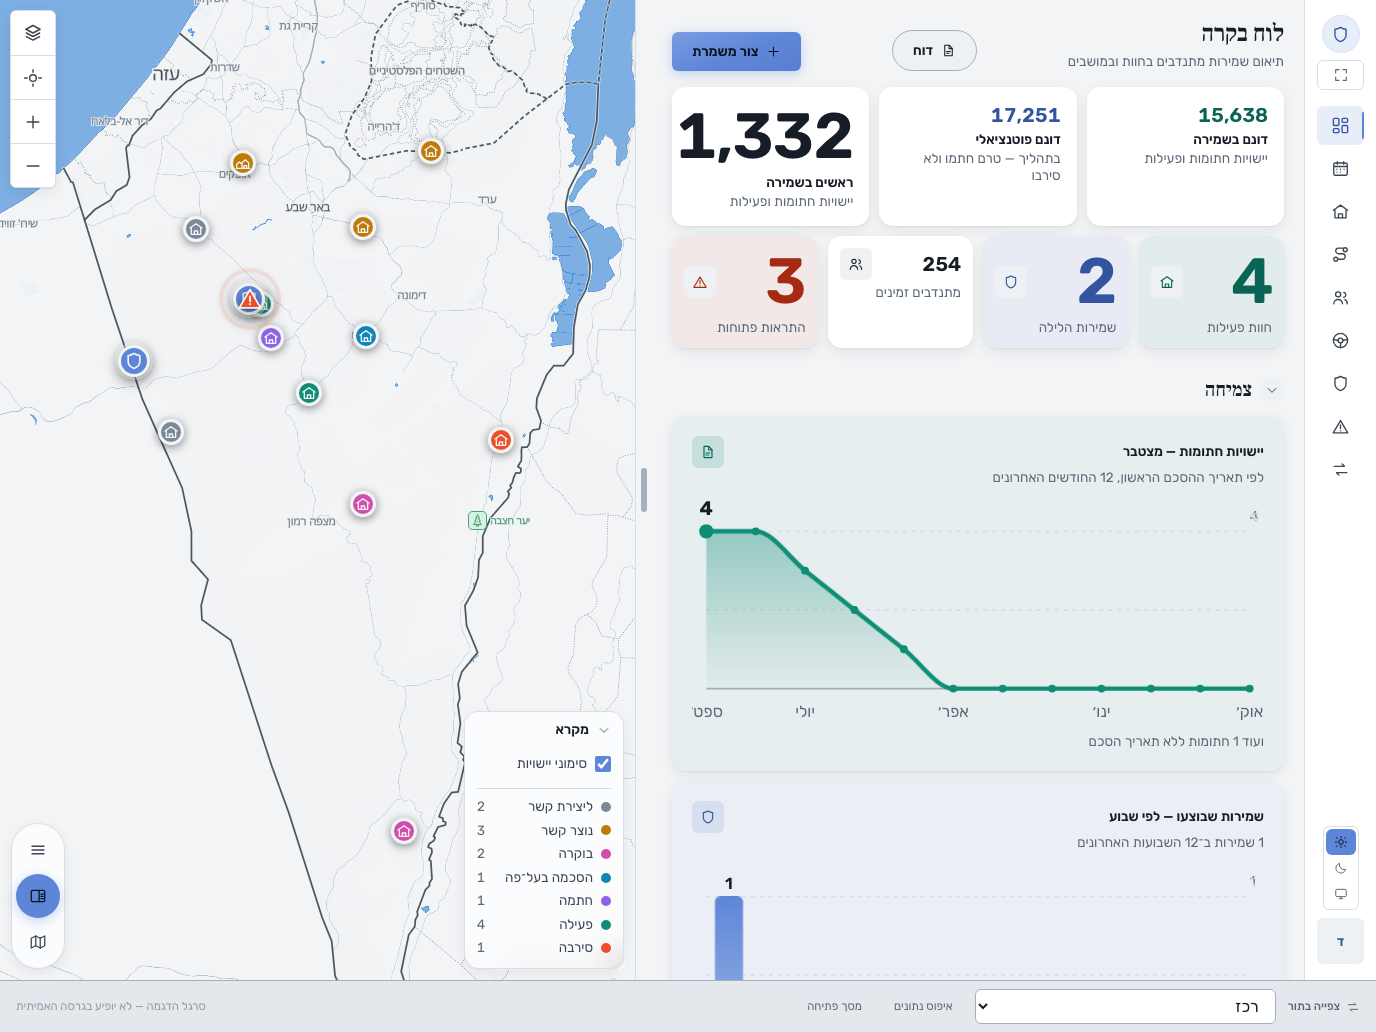
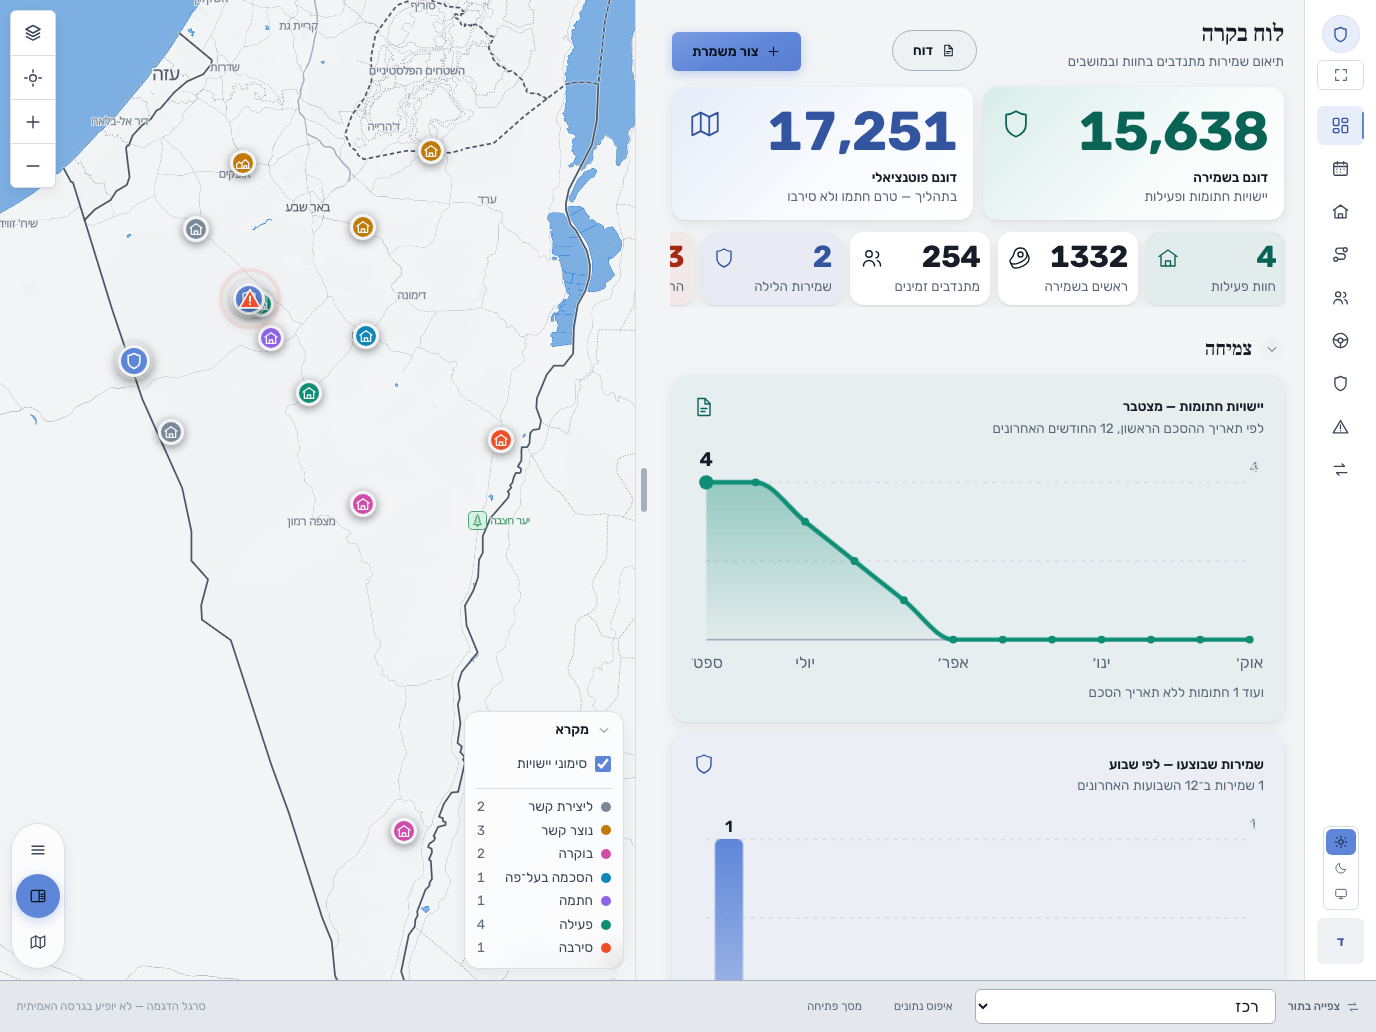
Passe finale — note ETAT (W1–W3 livrés, W4–W8 sacrifiés, 5 points à re-tester), gate uipass W2/W3, captures de l'URL servie, licences : portraits utilisés

diff --git a/scripts/uipass.ts b/scripts/uipass.ts
@@ -66,7 +66,18 @@ await open(page, '#/coordinator', 4500)
 const charts = page.locator('[data-testid="chart-area"], [data-testid="chart-bars"]')
 check('dashboard: two growth charts', (await charts.count()) === 2)
 const boxes = await charts.evaluateAll((els) => els.map((e) => e.getBoundingClientRect()))
-check('dashboard: the charts are one UNDER the other', boxes.length === 2 && boxes[1].top > boxes[0].bottom - 1)
+// W3.2 (passe finale) — one under the other in a narrow column, SIDE BY SIDE
+// once the content column is 44 rem wide; and never taller than 240 px.
+const growthW = await page.locator('[data-testid="growth-charts"]').evaluate((e) => e.getBoundingClientRect().width)
+const sideBySide = growthW >= 44 * 16
+check(
+  sideBySide ? 'dashboard: the charts are SIDE BY SIDE (wide column)' : 'dashboard: the charts are one UNDER the other (narrow column)',
+  boxes.length === 2 && (sideBySide ? Math.abs(boxes[1].top - boxes[0].top) < 2 : boxes[1].top > boxes[0].bottom - 1),
+  `${Math.round(growthW)} px`,
+)
+check('dashboard: no chart taller than 240 px', boxes.every((b) => b.height <= 241), boxes.map((b) => Math.round(b.height)).join('/'))
+check('dashboard: no figure escapes its card', (await page.locator('[data-figure]').evaluateAll((els) => els.filter((e) => e.scrollWidth > e.clientWidth + 1).length)) === 0)
+check('dashboard: the two dunam cards lead', (await page.locator('[data-testid="hero-figures"] a').count()) === 2)
 const kpiBottom = await page.locator('[data-testid="kpi-guarded-heads"], a.card-interactive').first().evaluate((e) => e.getBoundingClientRect().bottom)
 check('dashboard: the charts come directly under the figures', boxes[0].top > kpiBottom)
 check('dashboard: the alerts are a carousel', (await page.locator('[data-testid="alerts-carousel"] [data-testid="alert-chip"]').count()) >= 2)

diff --git a/ETAT.md b/ETAT.md
@@ -1,5 +1,97 @@
 # לא ינום — ETAT
 
+> 🏁 **PASSE FINALE AVANT DÉMONSTRATION — 2026-09-02, ~10:00 (heure d'Israël). LIRE EN PREMIER.**
+>
+> Brief W1→W8, 1 h 30 chrono, autonomie totale. **Livré : W1, W2, W3.**
+> **Sacrifié faute de temps : W4, W5, W6, W7, W8** (dans l'ordre inverse
+> demandé, depuis la fin). Commits `c5381e0` (W1) et `7a5eefb` (W2+W3) sur
+> `main`, déploiement run 33610742383 ; captures locales dans
+> `docs/screenshots/final/`, captures de l'URL servie dans
+> `docs/screenshots/uipass/`.
+>
+> **État vérifié sur l'URL servie** (https://azmer-fts.github.io/lo-yanum/,
+> jumeau démo `/demo/`) : déploiement run 33610742383 **succès** ;
+> `bun run uipass` sur l'URL servie **21/21** (dont les 4 contrôles W2/W3
+> ajoutés : aucune figure n'échappe à sa carte, graphes ≤ 240 px, les deux
+> cartes dunams en tête, carrousel) ; `bun run blocks` **26/26** ;
+> `VIEWPORT=ipad-ls bun run layout` (gate renforcé W2, 32 écrans × 3
+> positions de séparateur) **0 échec** — les trois sur le build de ce commit.
+> Les autres viewports du gate `layout` (phone, iphone, ipad portrait) n'ont
+> pas été relancés faute de temps : à faire au prochain démarrage.
+>
+> ## Ce qui a changé
+>
+> - **W1 — portraits.** Plus aucune femme, plus aucune personne âgée parmi
+>   les volontaires et conducteurs : ils ne résolvent plus que vers les
+>   **16 jeunes hommes** du pool existant (fichiers listés dans
+>   `docs/demo-photos-licences.md` et `src/ui/demoPhotos.ts`) ; les contacts
+>   d'entités (agriculteurs) vers des hommes adultes de tous âges. Le choix
+>   se fait par la graine du marqueur (`contact` → adulte, sinon jeune), donc
+>   **rien n'a changé en base** et la purge reste la même.
+>   ⚠ Portraits « religieux » (kippa, tsitsit) : cherchés sur Wikimedia
+>   Commons (toutes licences, comme autorisé) — il n'y a que des archives
+>   noir et blanc des années 80 (Kiryat Arba, GPO) et des **personnalités
+>   publiques identifiables** (rabbins, députés, ambassadeur). Mettre le
+>   visage d'une personne réelle et identifiable sur un volontaire fictif
+>   était le pire résultat possible en démonstration ; j'ai renoncé. Les
+>   portraits actuels sont des modèles Unsplash CC0, jeunes, sans signe
+>   religieux. **Ces images sont temporaires et doivent être purgées ou
+>   remplacées avant tout usage réel.**
+> - **W2 — plus rien ne déborde d'une carte.** Cause racine traitée : chaque
+>   grand chiffre porte `data-figure`, sa carte est un *size container*
+>   (`.figure-card`) et sa taille de police est `min(plafond, (largeur −
+>   réserve icône) / (nb de caractères × 0,66))` — le chiffre s'adapte à la
+>   carte, jamais l'inverse ; `overflow:hidden` en dernier recours ;
+>   `.auto-cols` clampé par `min(--col-min, 100%)`. **Gate `layout`
+>   renforcé** : une figure plus large que sa carte = échec, aux 4 viewports
+>   × 3 positions de séparateur. Vérifié localement : scrollWidth == viewport
+>   et 0 figure échappée sur dashboard (3 positions), volontaires,
+>   conducteurs, fiche ferme.
+> - **W3 — dashboard.** (a) Deux grandes cartes « waouh » en tête
+>   (דונם בשמירה, דונם פוטנציאלי), jamais masquables, dégradé doux, icône
+>   nue 34 px trait fin ; (b) juste dessous **une rangée swipable** de petites
+>   cartes : חוות פעילות, ראשים בשמירה (petit, volontairement), מתנדבים
+>   זמינים, שמירות הלילה, התראות פתוחות — jamais de retour à la ligne ;
+>   (c) icônes sans pastille ronde, plus grandes, trait fin : dashboard,
+>   graphes, alertes, `Stat`, `KpiFilter`, « ma journée ». (2) Graphes
+>   plafonnés à **240 px** ; **côte à côte** dès que la colonne fait 44 rem
+>   (container query), vérifié à 3 positions de séparateur. (3) Carrousel
+>   d'alertes : contient **toutes** les alertes ouvertes, 2 visibles, hauteur
+>   +50 % (5,25 rem), **points de position** cliquables. Note : le dashboard
+>   et le badge du rail lisent la même source `getAlerts()` (incidents
+>   urgents non résolus, écarts de présence, retours non confirmés,
+>   recrutement) ; s'il voit « 5 » ailleurs, c'est la liste des incidents, qui
+>   compte aussi les non urgents.
+>
+> ## Sacrifié (pas commencé)
+>
+> - **W4** bouton d'action flottant unifié + menu contextuel façon macOS.
+> - **W5** carte : pile de contrôles en verre dépoli + sélecteur מפה/לוויין,
+>   suppression des boutons de mode en haut des listes, regroupement des
+>   outils de dessin dans le stylet, bouton « i » d'attribution, légende
+>   identique partout, marqueurs différenciés par type.
+> - **W6** fiche d'entité : bandeau à hauteur fixe, « מוזן ידנית » sur une
+>   deuxième ligne, pilule d'actions, fil d'Ariane réduit à une flèche.
+> - **W7** profil coordinateur éditable + rapport périodique.
+> - **W8** signature sur le contrat (P3.3).
+>
+> ## À re-tester par le PO — 5 points
+>
+> 1. **מתנדבים / נהגים** : faire défiler toute la liste — uniquement des
+>    hommes jeunes ; une fiche ferme → contacts = hommes adultes.
+> 2. **Dashboard iPad paysage** : déplacer le séparateur aux deux extrêmes —
+>    aucun scroll horizontal, les chiffres restent dans leurs cartes.
+> 3. **Dashboard** : les deux cartes dunams en tête, la rangée de petits KPI
+>    se swipe au doigt quand la colonne est étroite.
+> 4. **Graphes** : panneau large → côte à côte, jamais plus hauts que 240 px.
+> 5. **Alertes** : swiper le carrousel, les points suivent ; toutes les
+>    alertes ouvertes y sont.
+>
+> Pour reprendre : `git pull && bun install && bun run dev`, puis
+> `BASE_URL=http://localhost:5173 bun run layout` (gate renforcé W2) et
+> `bun run uipass` (URL servie, contrôles W3 ajoutés).
+
+
 > 🎯 **PASSE UI/UX AVANT DÉMONSTRATION — 2026-09-02 (journée). LIRE EN PREMIER.**
 >
 > Les dix unités U1→U10 de votre brief sont livrées, commitées une par une

diff --git a/docs/demo-photos-licences.md b/docs/demo-photos-licences.md
@@ -4,6 +4,8 @@ All 90 images under `public/demo-photos/` are CC0 / public domain photographs fr
 
 Regenerate with `bun run scripts/demo-photos.ts`. The manifest is `public/demo-photos/manifest.json`.
 
+**W1 (2026-09-02, passe finale) — which portraits the app actually uses.** The programme mobilises young yeshiva men, so the device only ever resolves a volunteer or a driver to one of the YOUNG MEN of the pool (files 02, 03, 04, 05, 07, 08, 10, 13, 15, 16, 18, 19, 21, 22, 23, 24) and an entity contact (a farmer) to one of the ADULT MEN (01, 06, 07, 10, 12, 14, 15, 18, 19, 20, 22, 23) — see `src/ui/demoPhotos.ts`. The women (25–51) stay on disk under their CC0 licence but are referenced by nothing. Every image here is demo material for a private demonstration and must be purged or replaced before any real use.
+
 ## People (51)
 
 | File | Commons page | Author | Licence |
